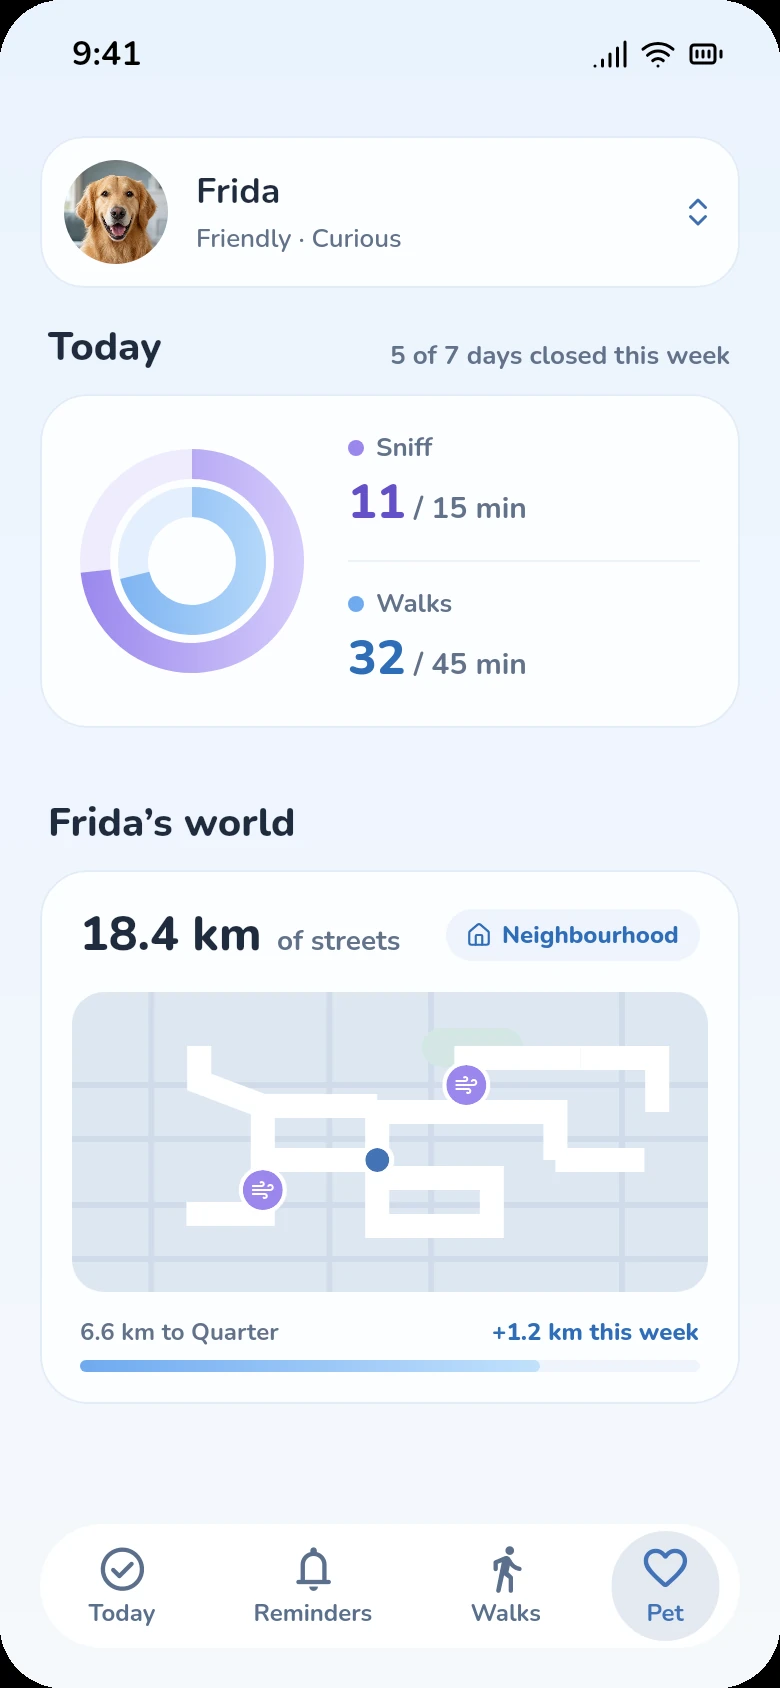
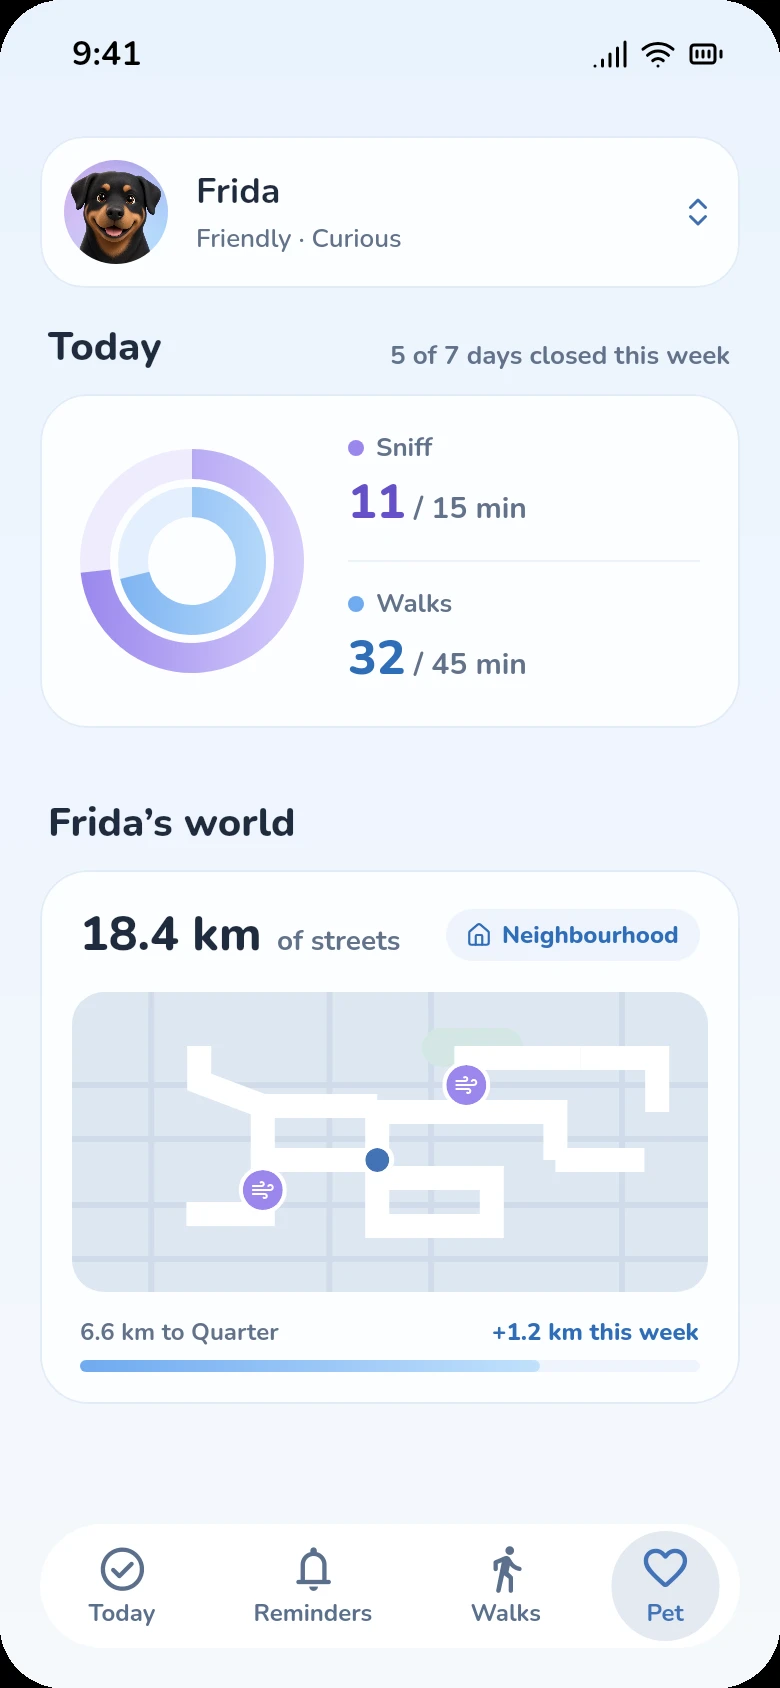
Use the new Frida rottweiler in rings and app screens

Changed region(s): [[0.0615, 0.0924, 0.2154, 0.154]]

diff --git a/index.html b/index.html
@@ -7,7 +7,7 @@
   <meta name="description" content="PawTails turns your dog’s walks into two gentle rings, sniff time and walk time, and a map of every street she knows. For iPhone." />
   <meta property="og:title" content="PawTails · Every walk brings you closer" />
   <meta property="og:description" content="Two daily rings for sniff and walk time, and a map of every street your dog knows." />
-  <meta property="og:image" content="https://pawtails-app.com/img/screen-walk-saved.webp" />
+  <meta property="og:image" content="https://pawtails-app.com/img/screen-walk-saved.webp?v=2" />
   <meta name="theme-color" content="#DCEBFC" />
   <link rel="icon" type="image/png" href="/favicon.png?v=2" />
   <link rel="apple-touch-icon" href="/apple-touch-icon.png?v=2" />
@@ -55,8 +55,8 @@
       </div>
 
       <div class="hero-visual" aria-hidden="true">
-        <figure class="phone phone-back"><img src="/img/screen-pet.webp" alt="" width="390" height="844" /></figure>
-        <figure class="phone phone-front"><img src="/img/screen-walk-saved.webp" alt="" width="390" height="844" /></figure>
+        <figure class="phone phone-back"><img src="/img/screen-pet.webp?v=2" alt="" width="390" height="844" /></figure>
+        <figure class="phone phone-front"><img src="/img/screen-walk-saved.webp?v=2" alt="" width="390" height="844" /></figure>
         <div class="chip chip-sniff"><span class="chip-badge sniff"><svg viewBox="0 0 24 24"><path d="M12.8 19.6A2 2 0 1 0 14 16H2M17.5 8a2.5 2.5 0 1 1 2 4H2M9.8 4.4A2 2 0 1 1 11 8H2"/></svg></span><span><small>Sniff</small><b class="ink-sniff">15 / 15 min</b></span></div>
         <div class="chip chip-world"><span class="chip-badge"><svg viewBox="0 0 24 24"><path d="M14.1 6.3 9.9 4.2a2 2 0 0 0-1.8 0L3.6 6.5A1 1 0 0 0 3 7.4v12.1a1 1 0 0 0 1.4.9l3.7-1.9a2 2 0 0 1 1.8 0l4.2 2.1a2 2 0 0 0 1.8 0l4.5-2.3a1 1 0 0 0 .6-.9V5.3a1 1 0 0 0-1.4-.9l-3.7 1.9a2 2 0 0 1-1.8 0zM15 6v15M9 3v15"/></svg></span><span><small>New streets</small><b class="ink-accent">+1.2 km</b></span></div>
       </div>
@@ -106,7 +106,7 @@
             </div>
             <div class="rings" style="--sniff:73;--walk:71" role="img" aria-label="Sniff ring 11 of 15 minutes, walks ring 32 of 45 minutes">
               <svg viewBox="0 0 100 100"><circle class="track sniff" cx="50" cy="50" r="43.5" /><circle class="fill sniff" cx="50" cy="50" r="43.5" pathLength="100" /><circle class="track walk" cx="50" cy="50" r="28.5" /><circle class="fill walk" cx="50" cy="50" r="28.5" pathLength="100" /></svg>
-              <img src="/img/frida.webp" alt="" />
+              <img src="/img/frida.webp?v=3" alt="" />
             </div>
           </article>
 
@@ -139,7 +139,7 @@
           <article class="tile tile-celebrate">
             <div class="rings rings-small" style="--sniff:100;--walk:100" aria-hidden="true">
               <svg viewBox="0 0 100 100"><circle class="track sniff" cx="50" cy="50" r="43.5" /><circle class="fill sniff" cx="50" cy="50" r="43.5" pathLength="100" /><circle class="track walk" cx="50" cy="50" r="28.5" /><circle class="fill walk" cx="50" cy="50" r="28.5" pathLength="100" /></svg>
-              <img src="/img/frida.webp" alt="" loading="lazy" />
+              <img src="/img/frida.webp?v=3" alt="" loading="lazy" />
             </div>
             <h3>Both rings closed</h3>
             <p>A small celebration after every walk, with the streets she found today.</p>
@@ -152,7 +152,7 @@
     <section class="family" id="family">
       <div class="wrap family-grid">
         <div class="family-visual" aria-hidden="true">
-          <div class="phone-wrap"><figure class="phone phone-family"><img src="/img/screen-household.webp" alt="" width="390" height="844" loading="lazy" /></figure></div>
+          <div class="phone-wrap"><figure class="phone phone-family"><img src="/img/screen-household.webp?v=2" alt="" width="390" height="844" loading="lazy" /></figure></div>
           <div class="chip chip-logged"><span class="chip-badge green"><svg viewBox="0 0 24 24"><circle cx="12" cy="12" r="10"/><path d="m9 12 2 2 4-4"/></svg></span><span><small>Logged by Mom</small><b class="ink-green">Feeding · 08:10</b></span></div>
         </div>
         <div class="family-copy">
@@ -219,7 +219,7 @@
         </div>
         <div class="rings rings-cta" style="--sniff:100;--walk:100" aria-hidden="true">
           <svg viewBox="0 0 100 100"><circle class="track sniff" cx="50" cy="50" r="43.5" /><circle class="fill sniff" cx="50" cy="50" r="43.5" pathLength="100" /><circle class="track walk" cx="50" cy="50" r="28.5" /><circle class="fill walk" cx="50" cy="50" r="28.5" pathLength="100" /></svg>
-          <img src="/img/frida.webp" alt="" loading="lazy" />
+          <img src="/img/frida.webp?v=3" alt="" loading="lazy" />
         </div>
       </div>
     </section>
